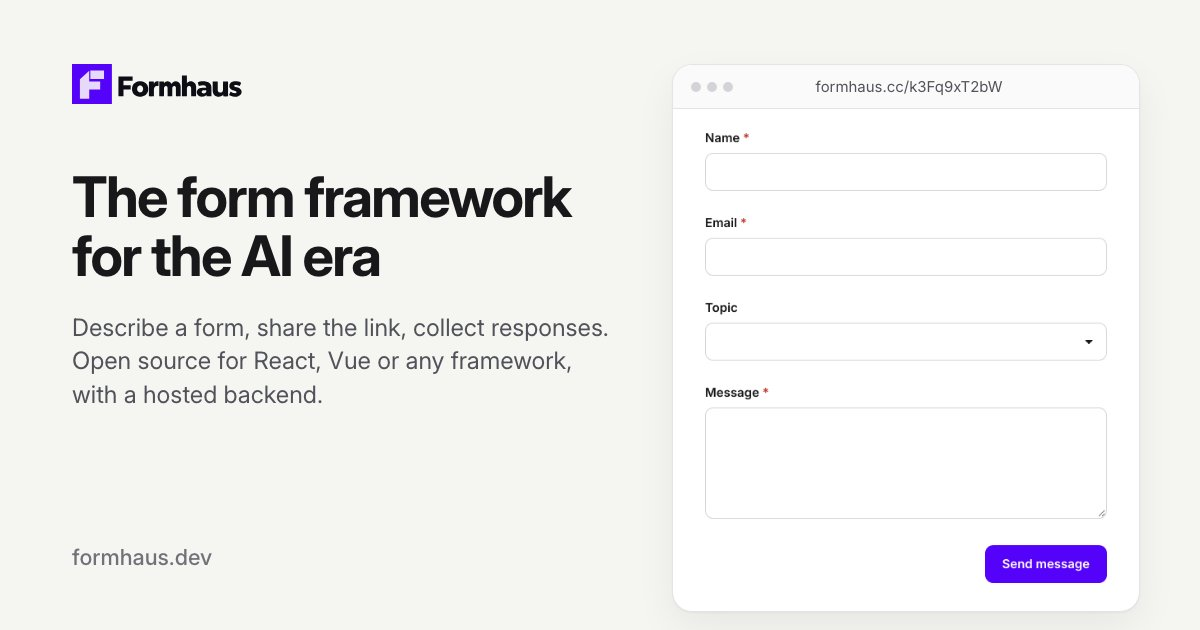
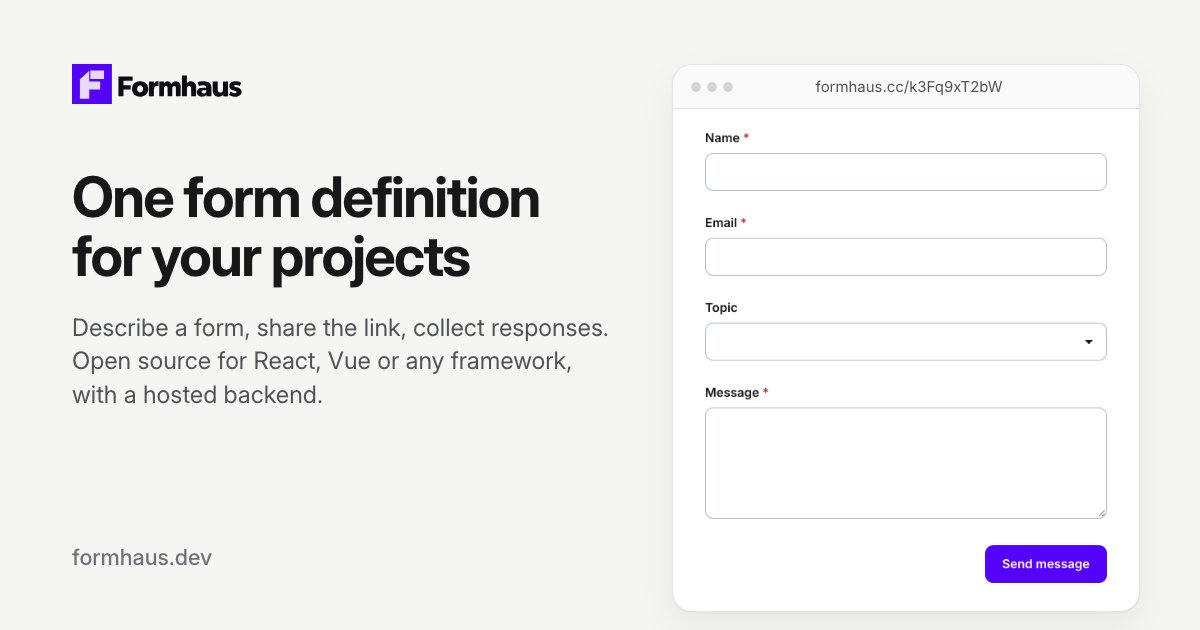
feat: make the framework page the site home (#465)
* feat: make the framework page the home page and move Cloud to /cloud

* docs: retitle the framework and point links at the new home and Cloud pages

* docs: refresh the home social card

Changed region(s): [[0.0617, 0.2714, 0.4933, 0.4524]]

diff --git a/packages/site-theme/src/seo/jsonld.ts b/packages/site-theme/src/seo/jsonld.ts
@@ -21,14 +21,13 @@ const plans = [
   { name: 'Team', price: '49' },
 ];
 
-export function homeJsonLd(description: string) {
-  const organization = { '@id': `${siteUrl}/#organization` };
+export function siteJsonLd() {
   return {
     '@context': 'https://schema.org',
     '@graph': [
       {
         '@type': 'Organization',
-        ...organization,
+        '@id': `${siteUrl}/#organization`,
         name: siteName,
         legalName: 'Formhaus',
         url: `${siteUrl}/`,
@@ -40,31 +39,35 @@ export function homeJsonLd(description: string) {
         '@id': `${siteUrl}/#website`,
         name: siteName,
         url: `${siteUrl}/`,
-        publisher: organization,
-      },
-      {
-        '@type': 'WebApplication',
-        '@id': `${siteUrl}/#app`,
-        name: `${siteName} Cloud`,
-        description,
-        url: `${siteUrl}/`,
-        applicationCategory: 'BusinessApplication',
-        operatingSystem: 'Any',
-        publisher: organization,
-        offers: plans.map(({ name, price }) => ({
-          '@type': 'Offer',
-          name,
-          price,
-          priceCurrency: 'USD',
-          url: `${siteUrl}/cloud/plans`,
-          ...(price === '0'
-            ? {}
-            : {
-                priceSpecification: { '@type': 'UnitPriceSpecification', price, priceCurrency: 'USD', unitText: 'MONTH' },
-              }),
-        })),
+        publisher: { '@id': `${siteUrl}/#organization` },
       },
     ],
+  };
+}
+
+export function cloudJsonLd(description: string, url: string) {
+  return {
+    '@context': 'https://schema.org',
+    '@type': 'WebApplication',
+    '@id': `${siteUrl}/#app`,
+    name: `${siteName} Cloud`,
+    description,
+    url,
+    applicationCategory: 'BusinessApplication',
+    operatingSystem: 'Any',
+    publisher: { '@id': `${siteUrl}/#organization` },
+    offers: plans.map(({ name, price }) => ({
+      '@type': 'Offer',
+      name,
+      price,
+      priceCurrency: 'USD',
+      url: `${siteUrl}/cloud/plans`,
+      ...(price === '0'
+        ? {}
+        : {
+            priceSpecification: { '@type': 'UnitPriceSpecification', price, priceCurrency: 'USD', unitText: 'MONTH' },
+          }),
+    })),
   };
 }
 

diff --git a/packages/site-theme/src/seo/head.ts b/packages/site-theme/src/seo/head.ts
@@ -1,5 +1,5 @@
 import type { HeadConfig, TransformContext } from 'vitepress';
-import { articleJsonLd, breadcrumbJsonLd, faqJsonLd, frameworkJsonLd, homeJsonLd } from './jsonld';
+import { articleJsonLd, breadcrumbJsonLd, faqJsonLd, frameworkJsonLd, cloudJsonLd, siteJsonLd } from './jsonld';
 import { breadcrumbs, ogImage } from './meta';
 import { pageUrl, siteName } from './site';
 
@@ -26,8 +26,8 @@ export function transformHead({ pageData, title, description, content }: Transfo
   if (pageData.isNotFound) return [];
   const { relativePath, params } = pageData;
   const home = relativePath === 'index.md';
-  const framework = relativePath === 'framework.md';
-  const landing = home || framework;
+  const cloud = relativePath === 'cloud.md';
+  const landing = home || cloud;
   const url = pageUrl(relativePath);
   const image = ogImage(relativePath, params?.slug ? { slug: params.slug, title: params.title } : undefined);
   const tags: HeadConfig[] = [
@@ -43,8 +43,8 @@ export function transformHead({ pageData, title, description, content }: Transfo
     ['meta', { name: 'twitter:image', content: image.url }],
     ['meta', { name: 'twitter:image:alt', content: image.alt }],
   ];
-  if (home) tags.push(jsonLd(homeJsonLd(description)));
-  else if (framework) tags.push(jsonLd(frameworkJsonLd(description, url)));
+  if (home) tags.push(jsonLd(siteJsonLd()), jsonLd(frameworkJsonLd(description, url)));
+  else if (cloud) tags.push(jsonLd(cloudJsonLd(description, url)));
   else tags.push(jsonLd(breadcrumbJsonLd(breadcrumbs(relativePath, pageData.title, url))));
   const faq = landing ? faqJsonLd(content) : null;
   if (faq) tags.push(jsonLd(faq));

diff --git a/packages/site-theme/src/promo.ts b/packages/site-theme/src/promo.ts
@@ -3,8 +3,8 @@ import type { HeadConfig } from 'vitepress';
 export type PromoVariant = 'cloud' | 'framework';
 
 export function promoVariant(relativePath: string): PromoVariant | null {
-  if (relativePath === 'framework.md') return 'framework';
-  if (relativePath === 'index.md' || relativePath.startsWith('cloud/')) return 'cloud';
+  if (relativePath === 'index.md') return 'framework';
+  if (relativePath === 'cloud.md' || relativePath.startsWith('cloud/')) return 'cloud';
   return null;
 }
 
@@ -14,6 +14,6 @@ export const promoHead: HeadConfig[] = [
   [
     'script',
     {},
-    "try{var v=location.pathname.replace(/\\/$/,'')==='/framework'?'framework':'cloud';if(localStorage.getItem('fh-promo-'+v)==='1')document.documentElement.classList.add('fh-promo-off')}catch(e){}",
+    "try{var v=location.pathname.replace(/\\/$/,'')===''?'framework':'cloud';if(localStorage.getItem('fh-promo-'+v)==='1')document.documentElement.classList.add('fh-promo-off')}catch(e){}",
   ],
 ];

diff --git a/packages/site-theme/src/LpNav.vue b/packages/site-theme/src/LpNav.vue
@@ -10,8 +10,8 @@ const landing = computed(() =>
     .includes('lp-page'),
 );
 const links = [
-  { text: 'Cloud', href: '/', match: (path: string) => path === 'index.md' },
-  { text: 'Framework', href: '/framework', match: (path: string) => path === 'framework.md' },
+  { text: 'Framework', href: '/', match: (path: string) => path === 'index.md' },
+  { text: 'Cloud', href: '/cloud', match: (path: string) => path === 'cloud.md' },
   { text: 'Templates', href: '/templates/', match: (path: string) => path.startsWith('templates/') },
   { text: 'Builder', href: '/build', match: (path: string) => path === 'build.md' },
   { text: 'Docs', href: '/guide/', match: () => false },

diff --git a/packages/site-theme/src/config.ts b/packages/site-theme/src/config.ts
@@ -67,8 +67,8 @@ export const sharedDedupe = ['@formhaus/core', 'vue', 'vitepress'];
 export const sharedNav: DefaultTheme.NavItem[] = [
   { text: 'Guide', link: '/guide/' },
   { text: 'Templates', link: '/templates/', activeMatch: '^/templates/' },
-  { text: 'Cloud', link: '/', activeMatch: '^/(cloud/|$)' },
-  { text: 'Framework', link: '/framework' },
+  { text: 'Framework', link: '/', activeMatch: '^/$' },
+  { text: 'Cloud', link: '/cloud', activeMatch: '^/cloud' },
   { text: 'API', link: '/api/definition' },
   { text: 'Builder', link: '/build' },
   { text: 'Playground', link: '/playground' },

diff --git a/packages/site-theme/src/PromoBar.vue b/packages/site-theme/src/PromoBar.vue
@@ -14,7 +14,7 @@ const content = {
     leadShort: 'Developer?',
     rest: 'The Formhaus framework is free and open source.',
     link: 'Try the framework',
-    href: '/framework',
+    href: '/',
   },
   framework: {
     label: 'Formhaus Cloud',
@@ -22,7 +22,7 @@ const content = {
     leadShort: 'No backend?',
     rest: 'Formhaus Cloud hosts your forms.',
     link: 'Try Cloud',
-    href: '/',
+    href: '/cloud',
   },
 };
 const item = computed(() => (variant.value ? content[variant.value] : null));

diff --git a/packages/site-theme/src/footer.ts b/packages/site-theme/src/footer.ts
@@ -17,8 +17,8 @@ export const footerColumns: FooterColumn[] = [
     id: 'product',
     title: 'Product',
     links: [
-      { text: 'Cloud', href: '/' },
-      { text: 'Pricing', href: '/#pricing' },
+      { text: 'Cloud', href: '/cloud' },
+      { text: 'Pricing', href: '/cloud#pricing' },
       { text: 'Templates', href: '/templates/' },
       { text: 'Examples', href: '/guide/examples' },
     ],

diff --git a/packages/site-theme/src/seo/meta.ts b/packages/site-theme/src/seo/meta.ts
@@ -10,7 +10,7 @@ const routes: [string, Section, string?, string?][] = [
   ['compare/', 'compare', 'Compare', '/compare/'],
   ['cloud/', 'cloud'],
   ['legal/', 'legal', 'Legal', '/legal/'],
-  ['index.md', 'cloud'],
+  ['cloud.md', 'cloud'],
   ['api/', 'api'],
   ['spec.md', 'api'],
   ['build.md', 'build'],

diff --git a/docs/.vitepress/config.ts b/docs/.vitepress/config.ts
@@ -87,7 +87,7 @@ export default defineConfig({
       },
       {
         text: 'Cloud',
-        items: [{ text: 'Formhaus Cloud', link: '/' }],
+        items: [{ text: 'Formhaus Cloud', link: '/cloud' }],
       },
       {
         text: 'Recipes',

diff --git a/README.md b/README.md
@@ -9,7 +9,7 @@
   <a href="LICENSE"><img src="https://img.shields.io/github/license/formhaus-dev/formhaus" alt="MIT license"></a>
 </p>
 
-<p align="center"><strong>The form framework for the AI era.</strong></p>
+<p align="center"><strong>One form definition for your projects.</strong></p>
 
 <p align="center">
   One JSON definition holds fields, validation, conditions, steps and branching.<br>
@@ -22,7 +22,7 @@
   <a href="https://formhaus.dev/guide/">Documentation</a> ·
   <a href="#quick-start">Get started</a> ·
   <a href="https://formhaus.dev/playground">Playground</a> ·
-  <a href="https://formhaus.dev/">Formhaus Cloud</a>
+  <a href="https://formhaus.dev/cloud">Formhaus Cloud</a>
 </p>
 
 <br>
@@ -43,7 +43,7 @@ Two independent ways to use it:
   npm install @formhaus/core   # plus @formhaus/react or @formhaus/vue
   ```
 
-- **Use [Formhaus Cloud](https://formhaus.dev/).** A hosted form backend: a submission endpoint with server validation, a dashboard and webhooks, plus hosted links, embeds and a visual builder. The first form needs no account.
+- **Use [Formhaus Cloud](https://formhaus.dev/cloud).** A hosted form backend: a submission endpoint with server validation, a dashboard and webhooks, plus hosted links, embeds and a visual builder. The first form needs no account.
 
   Build in the browser at [app.formhaus.dev](https://app.formhaus.dev/login), or add the remote MCP server and ask your agent: "Make me a waitlist form and give me the link."
 
@@ -51,7 +51,7 @@ Two independent ways to use it:
   claude mcp add --transport http formhaus https://api.formhaus.dev/mcp
   ```
 
-  [Cloud quickstart](https://formhaus.dev/cloud/quickstart) · [Connect Claude](https://formhaus.dev/cloud/connect-claude) · [Dashboard](https://formhaus.dev/cloud/dashboard) · [Pricing](https://formhaus.dev/#pricing)
+  [Cloud quickstart](https://formhaus.dev/cloud/quickstart) · [Connect Claude](https://formhaus.dev/cloud/connect-claude) · [Dashboard](https://formhaus.dev/cloud/dashboard) · [Pricing](https://formhaus.dev/cloud#pricing)
 
 ![An agent publishes a waitlist form, the hosted form takes a response, and the agent reads it back](docs/public/media/agent-publishes-a-form.gif)
 

diff --git a/packages/react/README.md b/packages/react/README.md
@@ -52,7 +52,7 @@ import { FormhausForm } from '@formhaus/react/cloud';
 ## Docs
 
 - [Guide](https://formhaus.dev/guide/), [API reference](https://formhaus.dev/api/form-engine) and [recipes](https://formhaus.dev/recipes/)
-- [Framework overview](https://formhaus.dev/framework) and [playground](https://formhaus.dev/playground)
+- [Framework overview](https://formhaus.dev/) and [playground](https://formhaus.dev/playground)
 - [Source and issues](https://github.com/formhaus-dev/formhaus)
 
 ## License

diff --git a/packages/vue/README.md b/packages/vue/README.md
@@ -58,7 +58,7 @@ import { FormhausForm } from '@formhaus/vue/cloud';
 ## Docs
 
 - [Guide](https://formhaus.dev/guide/), [API reference](https://formhaus.dev/api/form-engine) and [recipes](https://formhaus.dev/recipes/)
-- [Framework overview](https://formhaus.dev/framework) and [playground](https://formhaus.dev/playground)
+- [Framework overview](https://formhaus.dev/) and [playground](https://formhaus.dev/playground)
 - [Source and issues](https://github.com/formhaus-dev/formhaus)
 
 ## License
